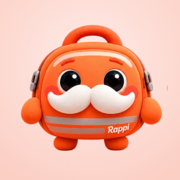
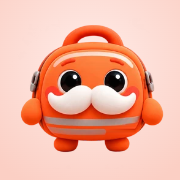
feat(app): instalable en el teléfono como «Mochi · demo»
- El manifiesto lo arma vite.config.js con el nombre del agente (AGENT_NAME): «Mochi · demo», standalone, fondo y
  tema blancos, íconos «any» de 192 y 512 y uno «maskable» para Android. Va como manifest.json para que cualquier
  servidor lo sirva con su tipo (Caddy no conoce .webmanifest en macOS); sigue pidiéndose con credenciales tras la
  puerta. La demo sin conexión no lo lleva.
- Íconos nuevos desde la pose de frente de src/assets/mochi-poses.webp, sin el logo de Rappi que trae la mochila
  (scripts/make-icons.mjs, con Chrome; reemplaza a icon.svg y make-icons.sh, que lo dejaban). Los del manifiesto en
  WebP: Chrome los baja al cargar la página para ofrecer instalarla y el de 512 en PNG pesaba 299 kB (ahora 16 kB).
- La pestaña usa un favicon de 48 px (5 kB) en vez del ícono de 192 (55 kB), que se bajaba en cada primera visita.
- iPhone: apple-mobile-web-app-title «Mochi · demo».
- Sin service worker (explicado en el README): la app no funciona sin la API, /assets/ ya se guarda un año y una
  cáscara servida desde caché se saltaría la puerta de acceso. La CSP no cambia: el manifiesto y los íconos son del
  mismo origen (manifest-src cae en default-src 'self').

diff --git a/prototipo-app/vite.config.js b/prototipo-app/vite.config.js
@@ -8,6 +8,39 @@ const agentName = {
   transformIndexHtml: { order: 'pre', handler: (html) => html.replaceAll('%AGENT_NAME%', AGENT_NAME) },
 }
 
+// El manifiesto de la app instalable, también con el nombre del agente: lo sirve el servidor de desarrollo y lo escribe
+// el build. Los íconos los genera scripts/make-icons.mjs. La demo sin conexión no lo lleva (abre como archivo).
+const MANIFEST = {
+  id: '/',
+  name: `${AGENT_NAME} · demo`,
+  short_name: `${AGENT_NAME} · demo`,
+  description: `Prototipo independiente con ${AGENT_NAME}, no afiliado a Rappi.`,
+  lang: 'es',
+  start_url: '/',
+  scope: '/',
+  display: 'standalone',
+  background_color: '#ffffff',
+  theme_color: '#ffffff',
+  icons: [
+    { src: '/icon-192.webp', sizes: '192x192', type: 'image/webp', purpose: 'any' },
+    { src: '/icon-512.webp', sizes: '512x512', type: 'image/webp', purpose: 'any' },
+    { src: '/icon-maskable-512.webp', sizes: '512x512', type: 'image/webp', purpose: 'maskable' },
+  ],
+}
+
+const appManifest = {
+  name: 'app-manifest',
+  configureServer(server) {
+    server.middlewares.use('/manifest.json', (_req, res) => {
+      res.setHeader('Content-Type', 'application/json')
+      res.end(JSON.stringify(MANIFEST))
+    })
+  },
+  generateBundle() {
+    this.emitFile({ type: 'asset', fileName: 'manifest.json', source: `${JSON.stringify(MANIFEST, null, 2)}\n` })
+  },
+}
+
 // La demo sin conexión (`vite build --mode demo`, ver scripts/demo-html.mjs): un solo JS, con las imágenes y las
 // fuentes adentro en base64, listo para meterse entero en un HTML que abre con doble clic.
 const DEMO_BUILD = {
@@ -27,7 +60,7 @@ const DEMO_ENV = {
 }
 
 export default defineConfig(({ mode }) => ({
-  plugins: [react(), agentName],
+  plugins: [react(), agentName, ...(mode === 'demo' ? [] : [appManifest])],
   server: { port: 5174 },
   base: mode === 'demo' ? './' : '/',
   define: mode === 'demo' ? DEMO_ENV : {},

diff --git a/prototipo-app/index.html b/prototipo-app/index.html
@@ -13,12 +13,12 @@
     <meta name="apple-mobile-web-app-capable" content="yes" />
     <meta name="mobile-web-app-capable" content="yes" />
     <meta name="apple-mobile-web-app-status-bar-style" content="default" />
-    <meta name="apple-mobile-web-app-title" content="Demo no oficial" />
+    <meta name="apple-mobile-web-app-title" content="%AGENT_NAME% · demo" />
     <meta name="theme-color" content="#ffffff" />
     <!-- Con credenciales: tras la puerta de acceso (basic auth) el manifiesto se pide con ellas, si no da 401 -->
-    <link rel="manifest" href="/manifest.webmanifest" crossorigin="use-credentials" />
+    <link rel="manifest" href="/manifest.json" crossorigin="use-credentials" />
     <link rel="apple-touch-icon" href="/apple-touch-icon.png" />
-    <link rel="icon" type="image/png" href="/icon-192.png" />
+    <link rel="icon" type="image/png" href="/favicon-48.png" />
   </head>
   <body>
     <div id="root"></div>
